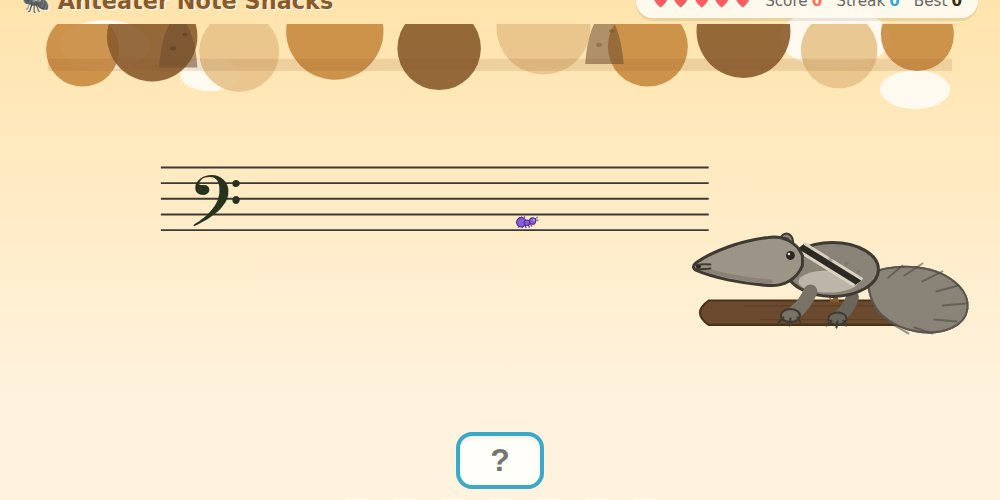
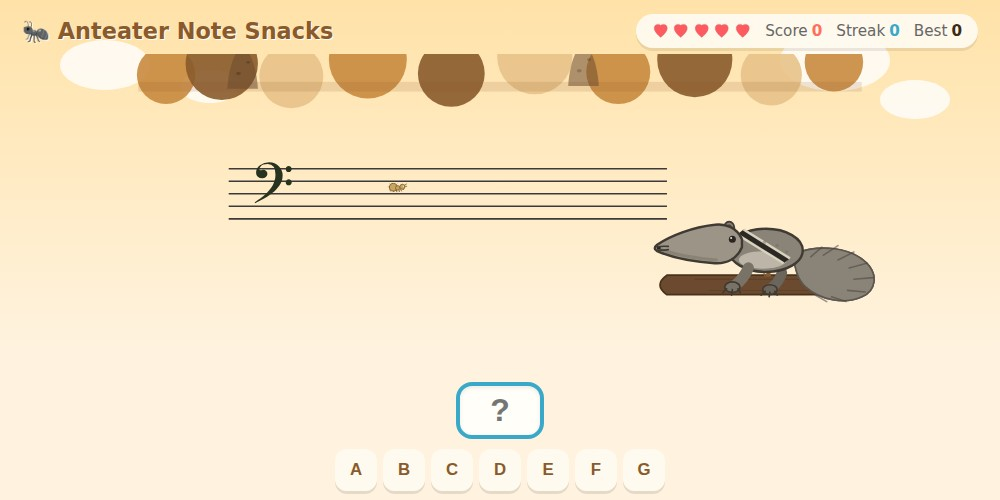
Fix bass clef position in anteater game and card thumbnail
The bass clef glyph was positioned too low (baselineOffset 84 → 66),
causing the hook to sit in the middle of the staff instead of at the
top line. Updated the game HTML and regenerated the card preview image
to match the corrected position.

Claude-Session: https://claude.ai/code/session_01D4sAZ4stkiNCbH3ExJMhuL

diff --git a/games/anteater-ant-snacks-bass-clef.html b/games/anteater-ant-snacks-bass-clef.html
@@ -775,7 +775,7 @@
     // the staff. Calibrated by direct visual comparison against the
     // staff lines at this font size.
     const fontSize = 100;
-    const baselineOffset = 84; // baseline sits this far below the top staff line
+    const baselineOffset = 66; // baseline sits this far below the top staff line
     return `<text x="${originX}" y="${topLineY + baselineOffset}"
         font-family="'Noto Music', 'Bravura Text', serif"
         font-size="${fontSize}" fill="#27331f" text-anchor="start">&#x1D122;</text>`;
